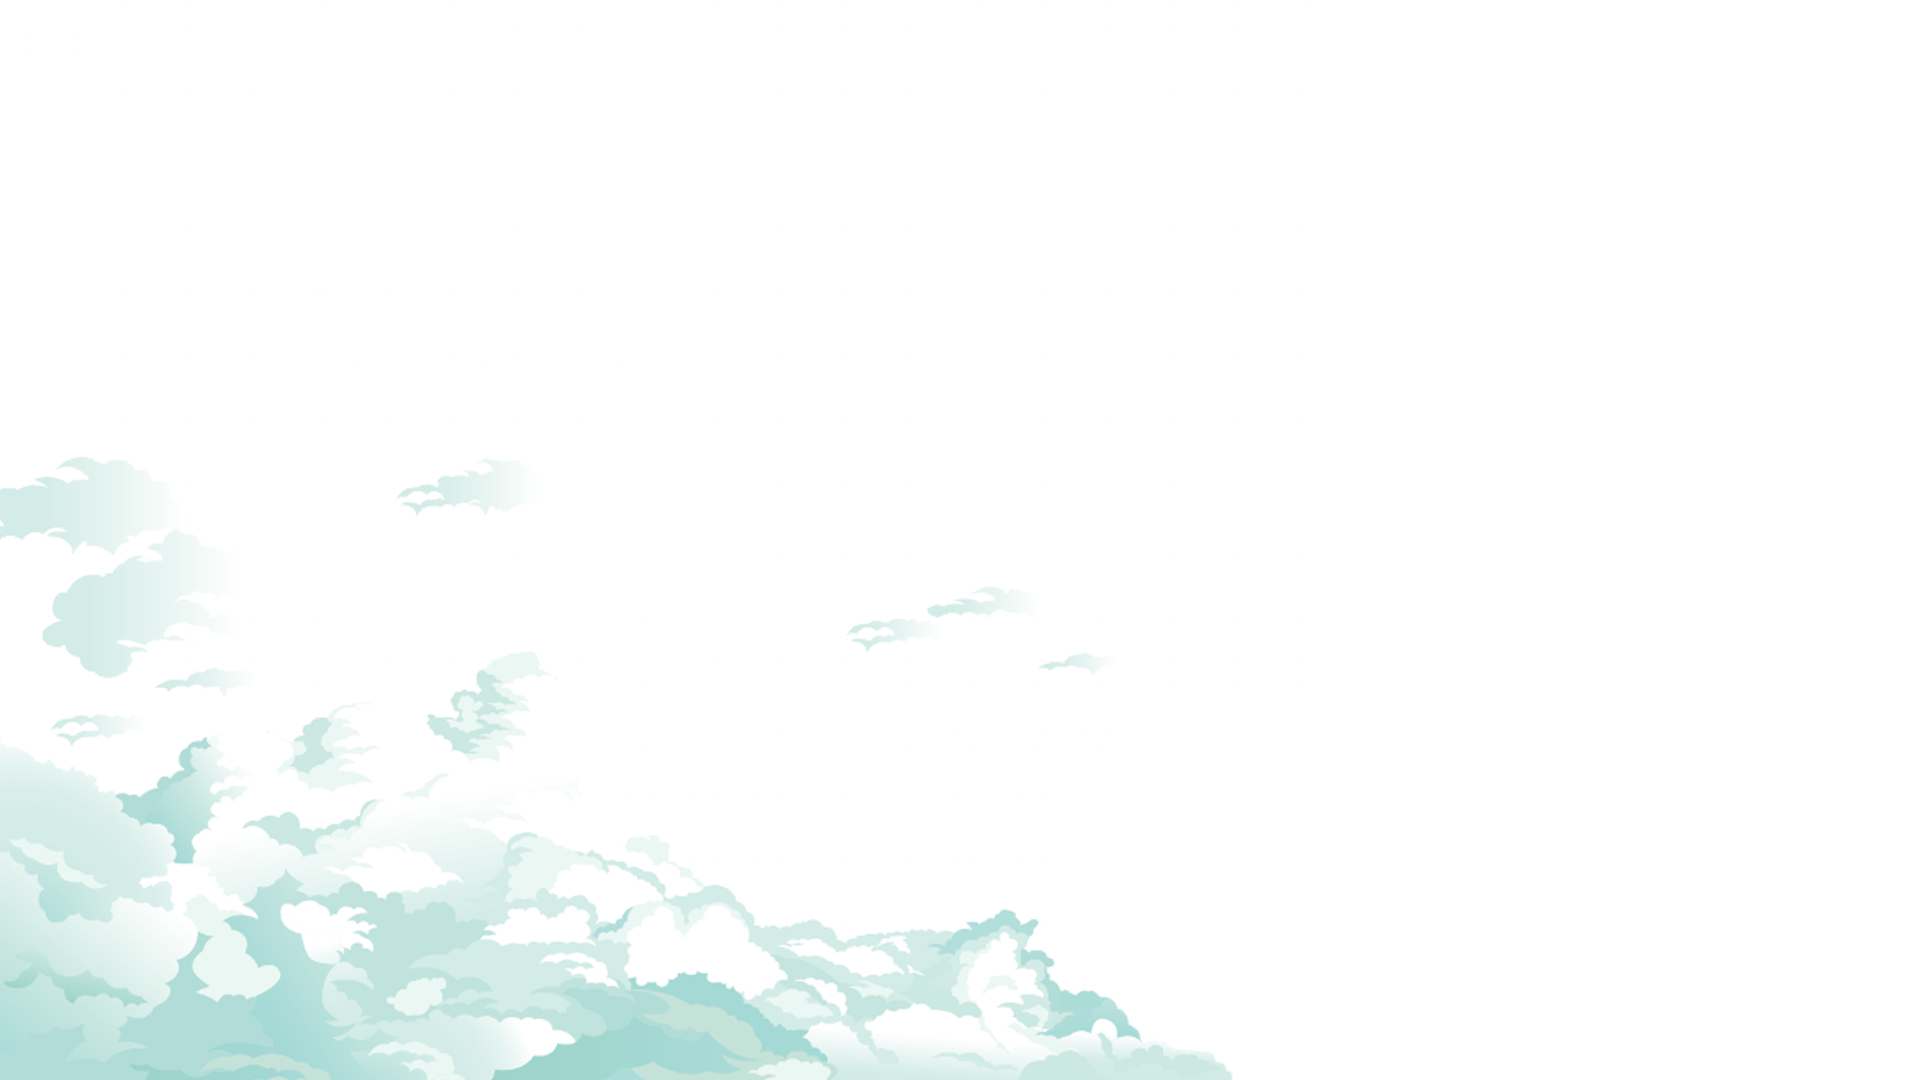
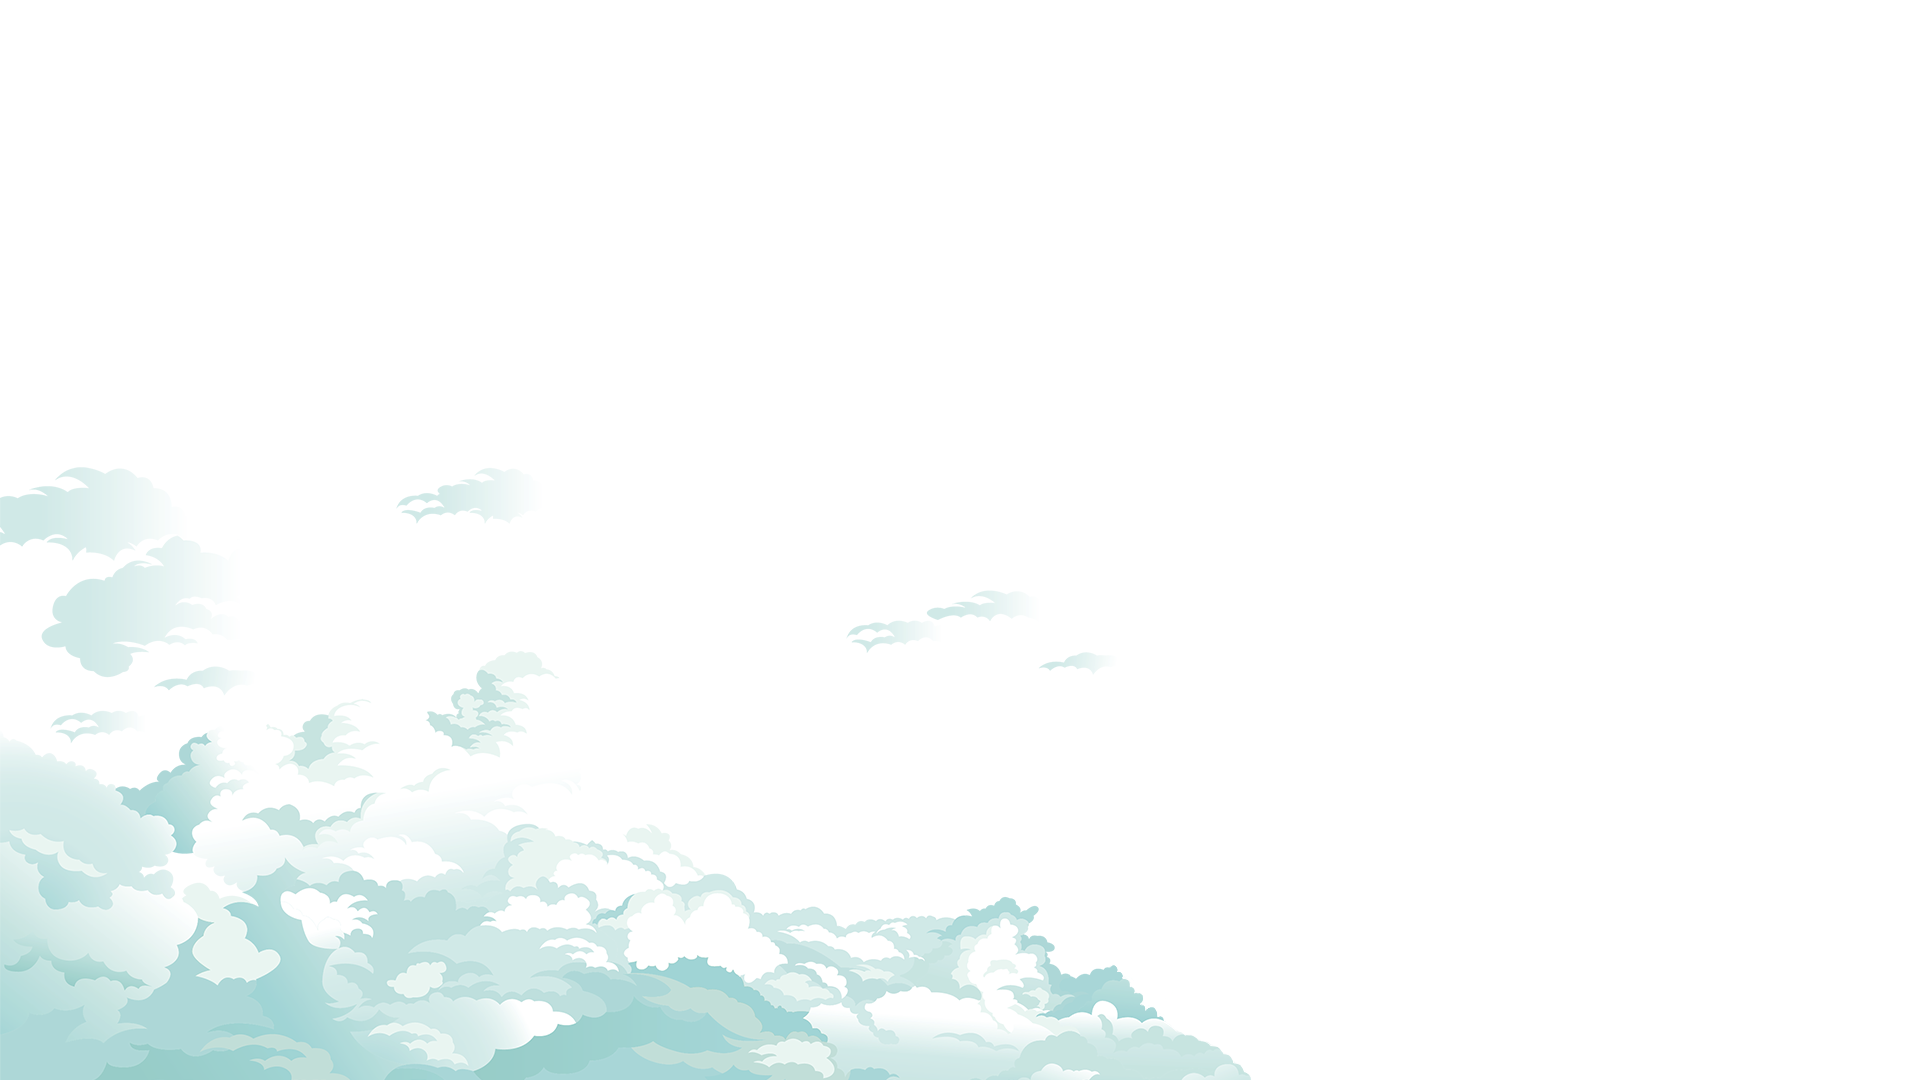
Work on light/dark mode

diff --git a/team1project/todoapp/templates/base.html b/team1project/todoapp/templates/base.html
@@ -82,7 +82,7 @@
             border-radius: 4px;
         } */
         .toggle-btn {
-            background-color: #5b8e85;
+            background-color: transparent;
             color: white;
             border: none;
             z-index: 2000; 
@@ -111,7 +111,7 @@
 <body class="m-3">
 
     <!-- Navbar -->
-    <nav class="navbar navbar-dark" style="height: 80px; background-color: #5b8e85;">
+    <nav class="navbar navbar-dark" style="height: 80px; ">
         <div class="container-fluid d-flex align-items-center">
             <button class="toggle-btn me-3" onclick="toggleSidebar()">☰</button>
             <a class="navbar-brand mb-0 h1" href="{% url 'home' %}" style="font-size: 2rem;">To-Do List &ensp; &ensp;</a>
@@ -134,7 +134,6 @@
             </li>
         </ul>
     </div>
-
 
     <!-- Main Content -->
     <div class="main-content" id="mainContent">
@@ -202,5 +201,39 @@
             return outputArray;
         }
     </script>
+    
+    <!-- script to load theme -->
+    <script>
+        function applyTheme(theme) {
+            document.documentElement.setAttribute('data-bs-theme', theme);
+            
+            // background image
+            if (theme === 'dark') {
+                document.body.style.backgroundImage = "url('{% static 'todolist-background-dark.png' %}')";
+            } else {
+                document.body.style.backgroundImage = "url('{% static 'todolist-background.png' %}')";
+            }
+    
+            // navbar 
+            const navbar = document.querySelector('.navbar');
+            if (navbar) {
+                navbar.classList.remove('navbar-light');
+                navbar.classList.add('navbar-dark'); 
+
+                if (theme === 'dark') {
+                    navbar.style.backgroundColor = "#0d2f33"; 
+                    sidebar.style.backgroundColor = "#0d2f33";
+                } else {
+                    navbar.style.backgroundColor = '#5b8e85';
+                    sidebar.style.backgroundColor = '#5b8e85'; 
+                }
+            }
+        }
+    
+        document.addEventListener('DOMContentLoaded', () => {
+            const savedTheme = localStorage.getItem('theme') || 'light';
+            applyTheme(savedTheme);
+        });
+    </script>    
 </body>
 </html>

diff --git a/team1project/todoapp/templates/profile_settings.html b/team1project/todoapp/templates/profile_settings.html
@@ -1,6 +1,15 @@
 {% extends 'base.html' %}
+
+<style>
+    [data-bs-theme="light"] .custom-alert {
+        background-color: white;
+        color: black;
+    }
+
+</style>
+
 {% block content %}
-<div class="alert alert-info alert-dismissible fade show d-flex justify-content-between align-items-center flex-wrap gap-2 border border-dark" style="background-color:white;" role="alert">
+<div class="alert alert-info alert-dismissible fade show d-flex justify-content-between align-items-center flex-wrap gap-2 border border-dark custom-alert" role="alert">
     <p class="mb-0">
       Welcome to the profile settings page! Here, you will be able to manage and edit your personal information as well as toggle certain user preferences.
     </p>
@@ -47,6 +56,18 @@
         <div class="col-md-12">
             <h2 class="card-title" style="margin-bottom: 30px;">User Preferences</h2>
         </div>
+        <button class="btn btn-dark shadow" id="btnSwitch">Toggle Mode</button>
     </div>
 </div>
+
+<!-- for light-dark mode toggle -->
+<script>
+    document.getElementById('btnSwitch').addEventListener('click', () => {
+        const currentTheme = document.documentElement.getAttribute('data-bs-theme');
+        const newTheme = currentTheme === 'dark' ? 'light' : 'dark';
+        applyTheme(newTheme); // calls the global function from base.html
+        localStorage.setItem('theme', newTheme);
+    });
+</script>
+
 {% endblock %}

diff --git a/team1project/todoapp/templates/add_task.html b/team1project/todoapp/templates/add_task.html
@@ -1,7 +1,7 @@
 {% extends 'base.html' %}
 
 {% block content %}
-<div class="alert alert-info alert-dismissible fade show d-flex justify-content-between align-items-center flex-wrap gap-2 border border-dark" style="background-color:white;" role="alert">
+<div class="alert alert-info alert-dismissible fade show d-flex justify-content-between align-items-center flex-wrap gap-2 border border-dark custom-alert"  role="alert">
     <p class="mb-0">
       Here, you are able to create tasks so that you can add them to your personal calender. Please enter information about a given task in the fields below. If you wish to recieve reminders about the task (for example, when the deadline is approaching) please check the 'Reminders' box at the bottom of the form.
     </p>

diff --git a/team1project/todoapp/templates/home.html b/team1project/todoapp/templates/home.html
@@ -111,7 +111,7 @@ function resetFilter(){
 }
 </script>
 
-<div class="alert alert-info alert-dismissible fade show d-flex justify-content-between align-items-center flex-wrap gap-2 border border-dark" style="background-color:white;" role="alert">
+<div class="alert alert-info alert-dismissible fade show d-flex justify-content-between align-items-center flex-wrap gap-2 border border-dark custom-alert" role="alert">
   <p class="mb-0">
   Welcome to the home page! Here, you will be able to view all your tasks for a given month on your personal calendar. The current day is highlighted in yellow, and the tasks for a selected day are listed on the right.</p>
   <button type="button" class="btn-close" data-bs-dismiss="alert" aria-label="Close"></button>

diff --git a/team1project/todoapp/templates/task_archive.html b/team1project/todoapp/templates/task_archive.html
@@ -1,7 +1,7 @@
 {% extends 'base.html' %}
 
 {% block content %}
-<div class="alert alert-info alert-dismissible fade show d-flex justify-content-between align-items-center flex-wrap gap-2 border border-dark" style="background-color:white;" role="alert">
+<div class="alert alert-info alert-dismissible fade show d-flex justify-content-between align-items-center flex-wrap gap-2 border border-dark custom-alert role="alert">
     <p class="mb-0">
       Welcome to the task archive page! Here, you will be able to view all tasks that either manually or automatically archived. Tasks that are fully completed and past their deadline will be automatically archived and added to this page. You may also manually archive a task from the task page. 
     </p>

diff --git a/team1project/todoapp/templates/share_task.html b/team1project/todoapp/templates/share_task.html
@@ -1,7 +1,7 @@
 {% extends 'base.html' %}
 
 {% block content %}
-<div class="alert alert-info alert-dismissible fade show d-flex justify-content-between align-items-center flex-wrap gap-2 border border-dark" style="background-color:white;" role="alert">
+<div class="alert alert-info alert-dismissible fade show d-flex justify-content-between align-items-center flex-wrap gap-2 border border-dark custom-alert role="alert">
     <p class="mb-0">
       Here, you are able to share tasks so that other users can view details about a task and add it to their calender. You can share a task with a user by either entering their username or sending them the provided link. 
     </p>

diff --git a/team1project/todoapp/templates/index.html b/team1project/todoapp/templates/index.html
@@ -7,7 +7,7 @@
 {% endblock %}
 
 {% block content %}
-<div class="alert alert-info alert-dismissible fade show d-flex justify-content-between align-items-center flex-wrap gap-2 border border-dark" style="background-color:white;" role="alert">
+<div class="alert alert-info alert-dismissible fade show d-flex justify-content-between align-items-center flex-wrap gap-2 border border-dark custom-alert" role="alert">
     <p class="mb-0">
       Welcome to the To-Do List app! These alerts will appear to provide you with information on how to use the app and navigate each page. To dismiss this alert, click the 'x' on the right hand side of the message. 
     </p>

diff --git a/team1project/todoapp/templates/task_view.html b/team1project/todoapp/templates/task_view.html
@@ -21,7 +21,7 @@
     {{ form.media.css }}
 {% endblock %}
 
-<div class="alert alert-info alert-dismissible fade show d-flex justify-content-between align-items-center flex-wrap gap-2 border border-dark" style="background-color:white;" role="alert">
+<div class="alert alert-info alert-dismissible fade show d-flex justify-content-between align-items-center flex-wrap gap-2 border border-dark custom-alert" role="alert">
     <p class="mb-0">
       Welcome to the tasks page! Here, you will be able to view and manage tasks that are active, shared with you, and archived. You are also able to create new tasks and edit existing ones.
     </p>
